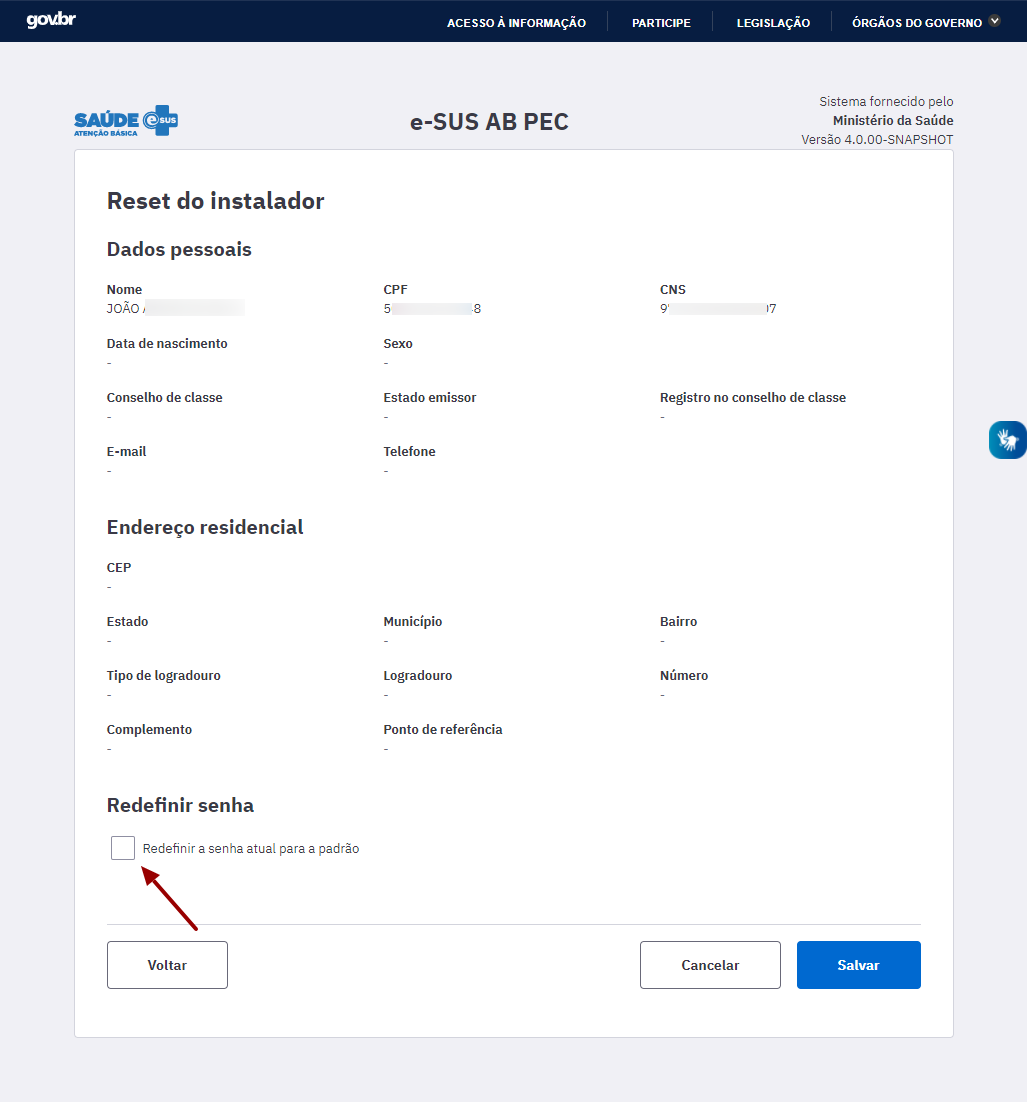
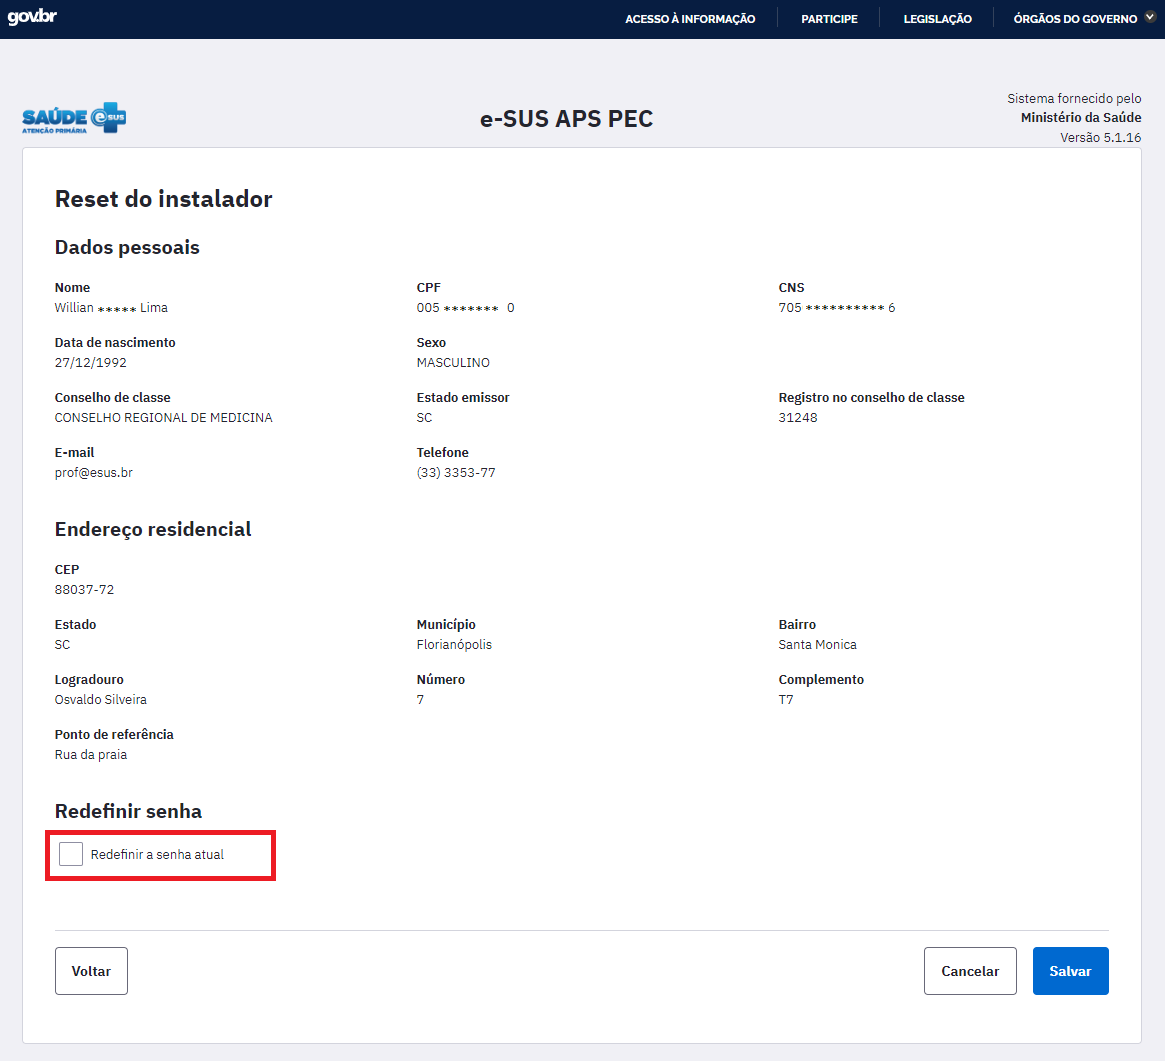
newcommit

diff --git a/docs/PEC/PEC_01_orientacoes_gerais.md b/docs/PEC/PEC_01_orientacoes_gerais.md
@@ -294,7 +294,7 @@ Fonte: SAPS/MS
 
 Fonte: SAPS/MS
 
-4. Caso o novo responsável pela instalação já esteja presente na base de cadastro do CNES o sistema irá apresentar seus dados como mostra a imagem a seguir. Se desejar redefinir a senha marque a opção "Redefinir a senha atual para a padrão".
+4. Caso o novo responsável pela instalação já esteja presente na base de cadastro do CNES o sistema irá apresentar seus dados como mostra a imagem a seguir. Se desejar redefinir a senha marque a opção "Redefinir a senha atual".
 
 ![](media/pec_image54.png)
 
